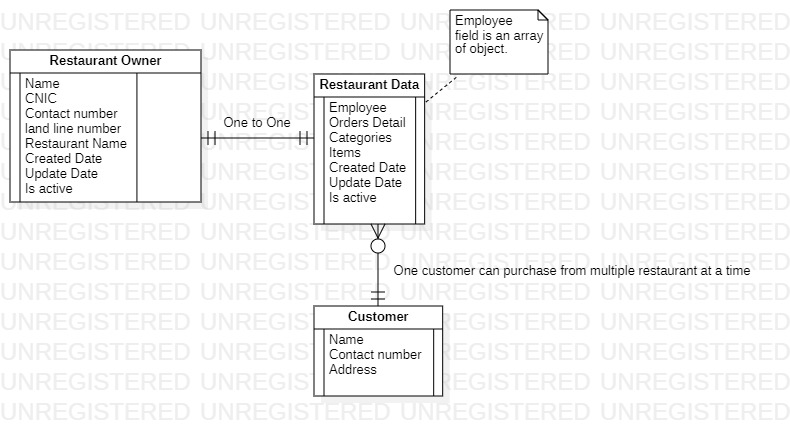
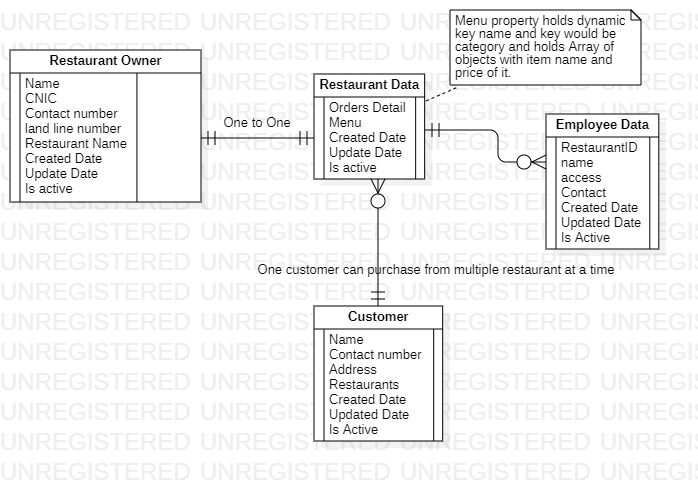
new field is added in employee model and images is updated

Changed region(s): [[0.0, 0.0, 0.9628, 0.9243], [0.6318, 0.7752, 0.6619, 0.805]]

diff --git a/backend/models/employeeModel.ts b/backend/models/employeeModel.ts
@@ -12,6 +12,11 @@ const employeeModel = new mongoose.Schema({
   access: [{
     type: String,
   }],
+  contact: {
+    type: String,
+    required: true,
+    maxLenght: 12,
+  },
   createdDate: Date,
   updatedDate: [String],
   isActive: {
